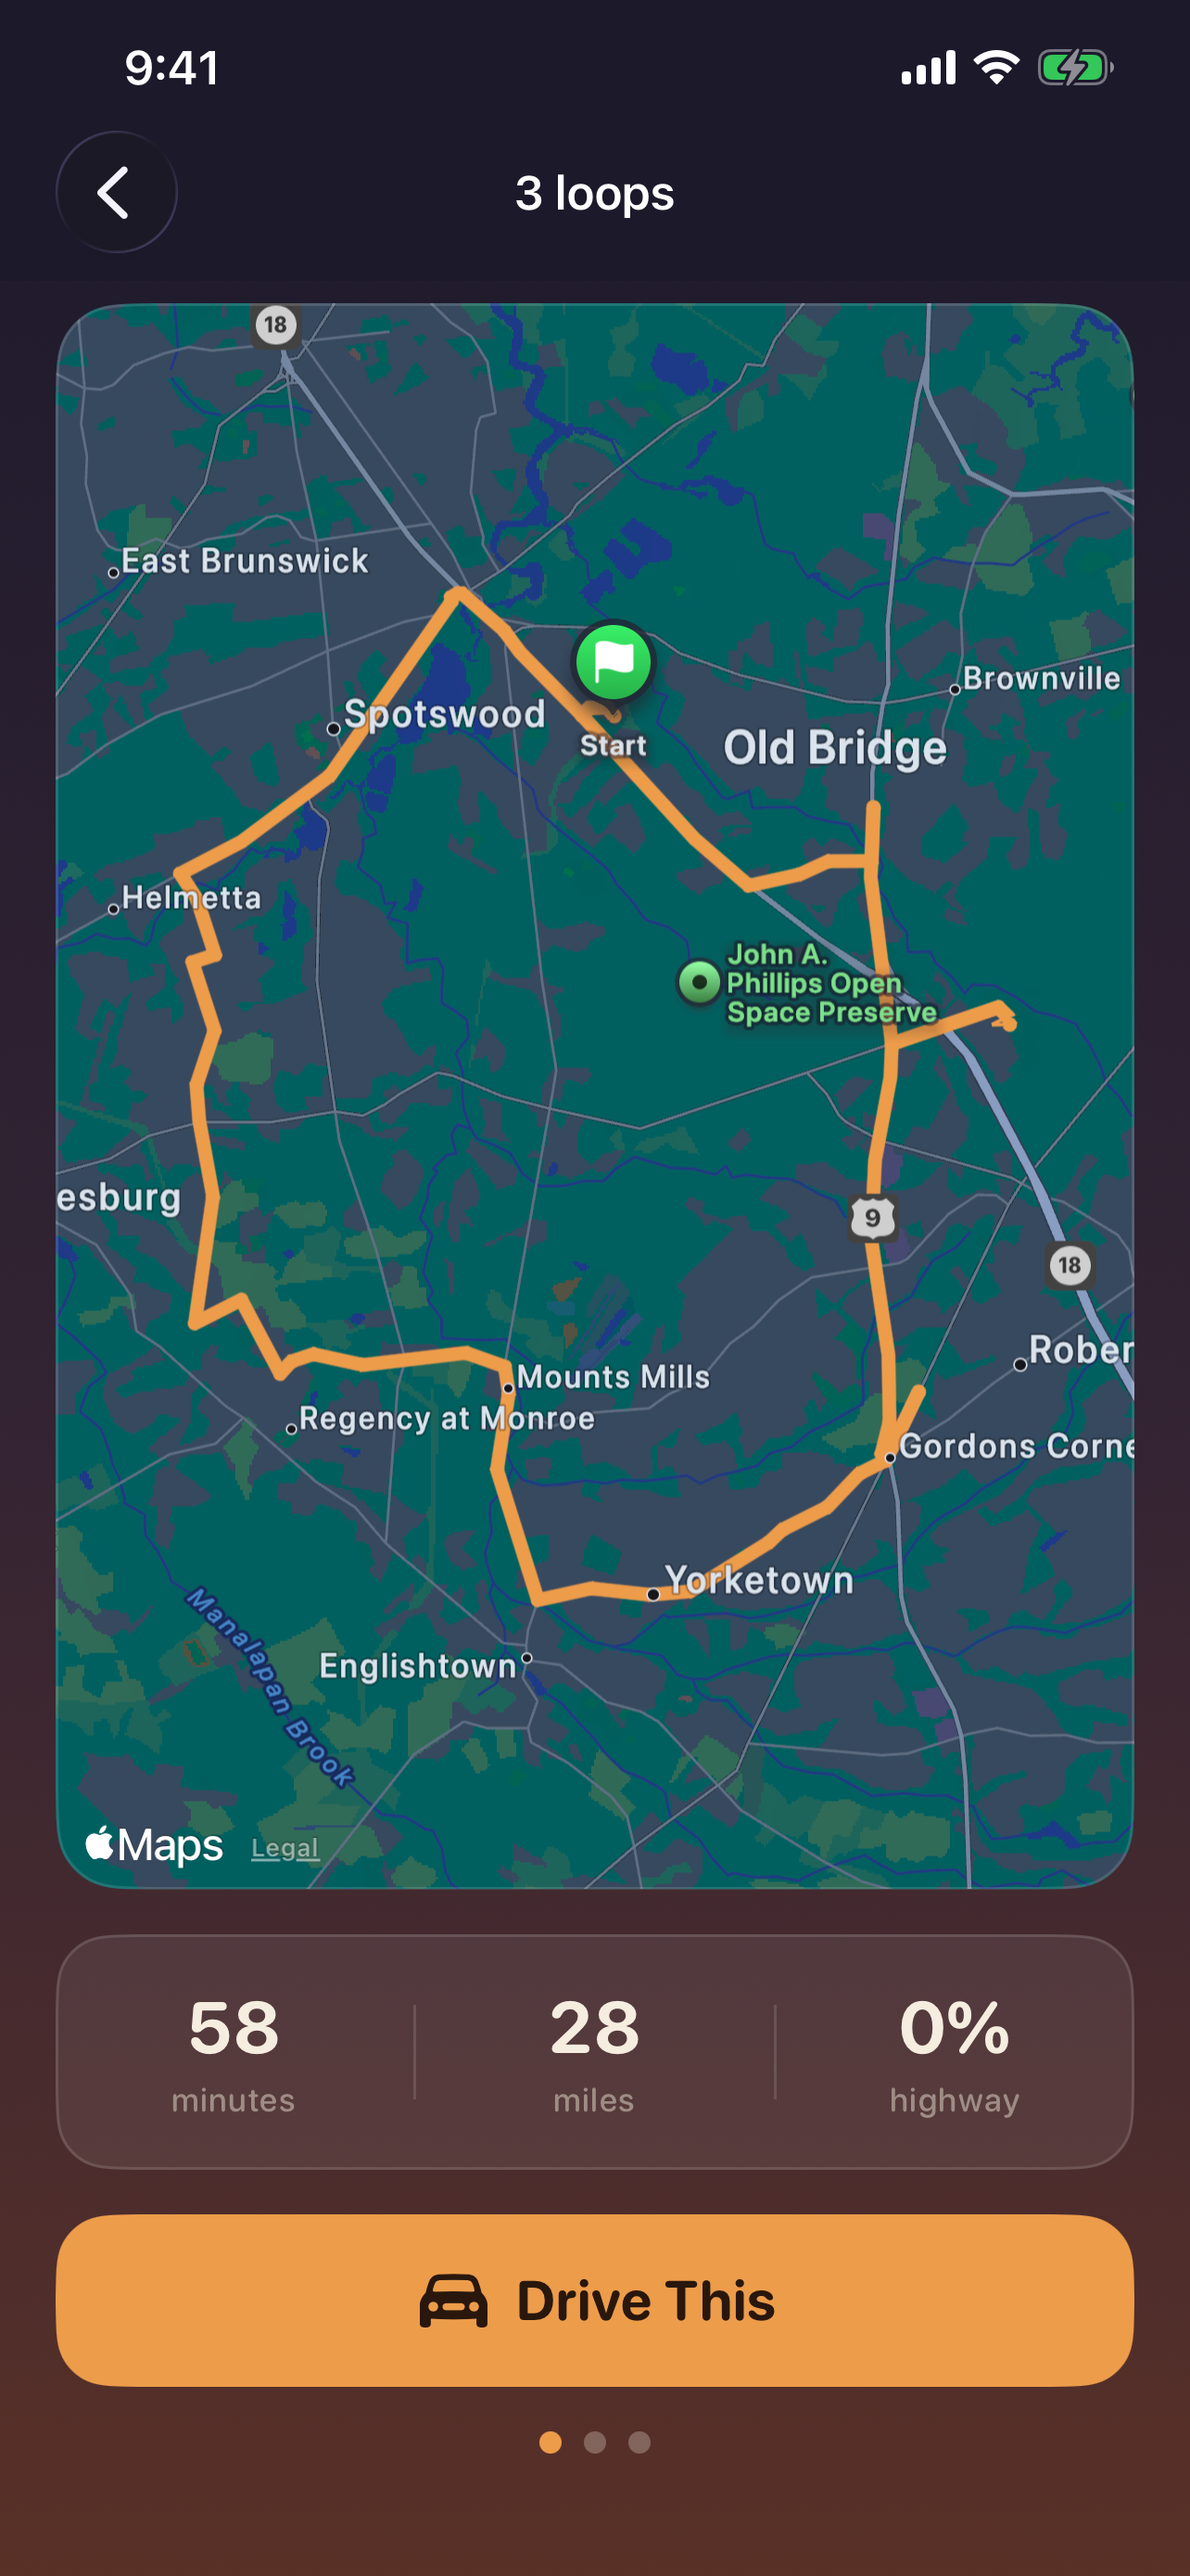
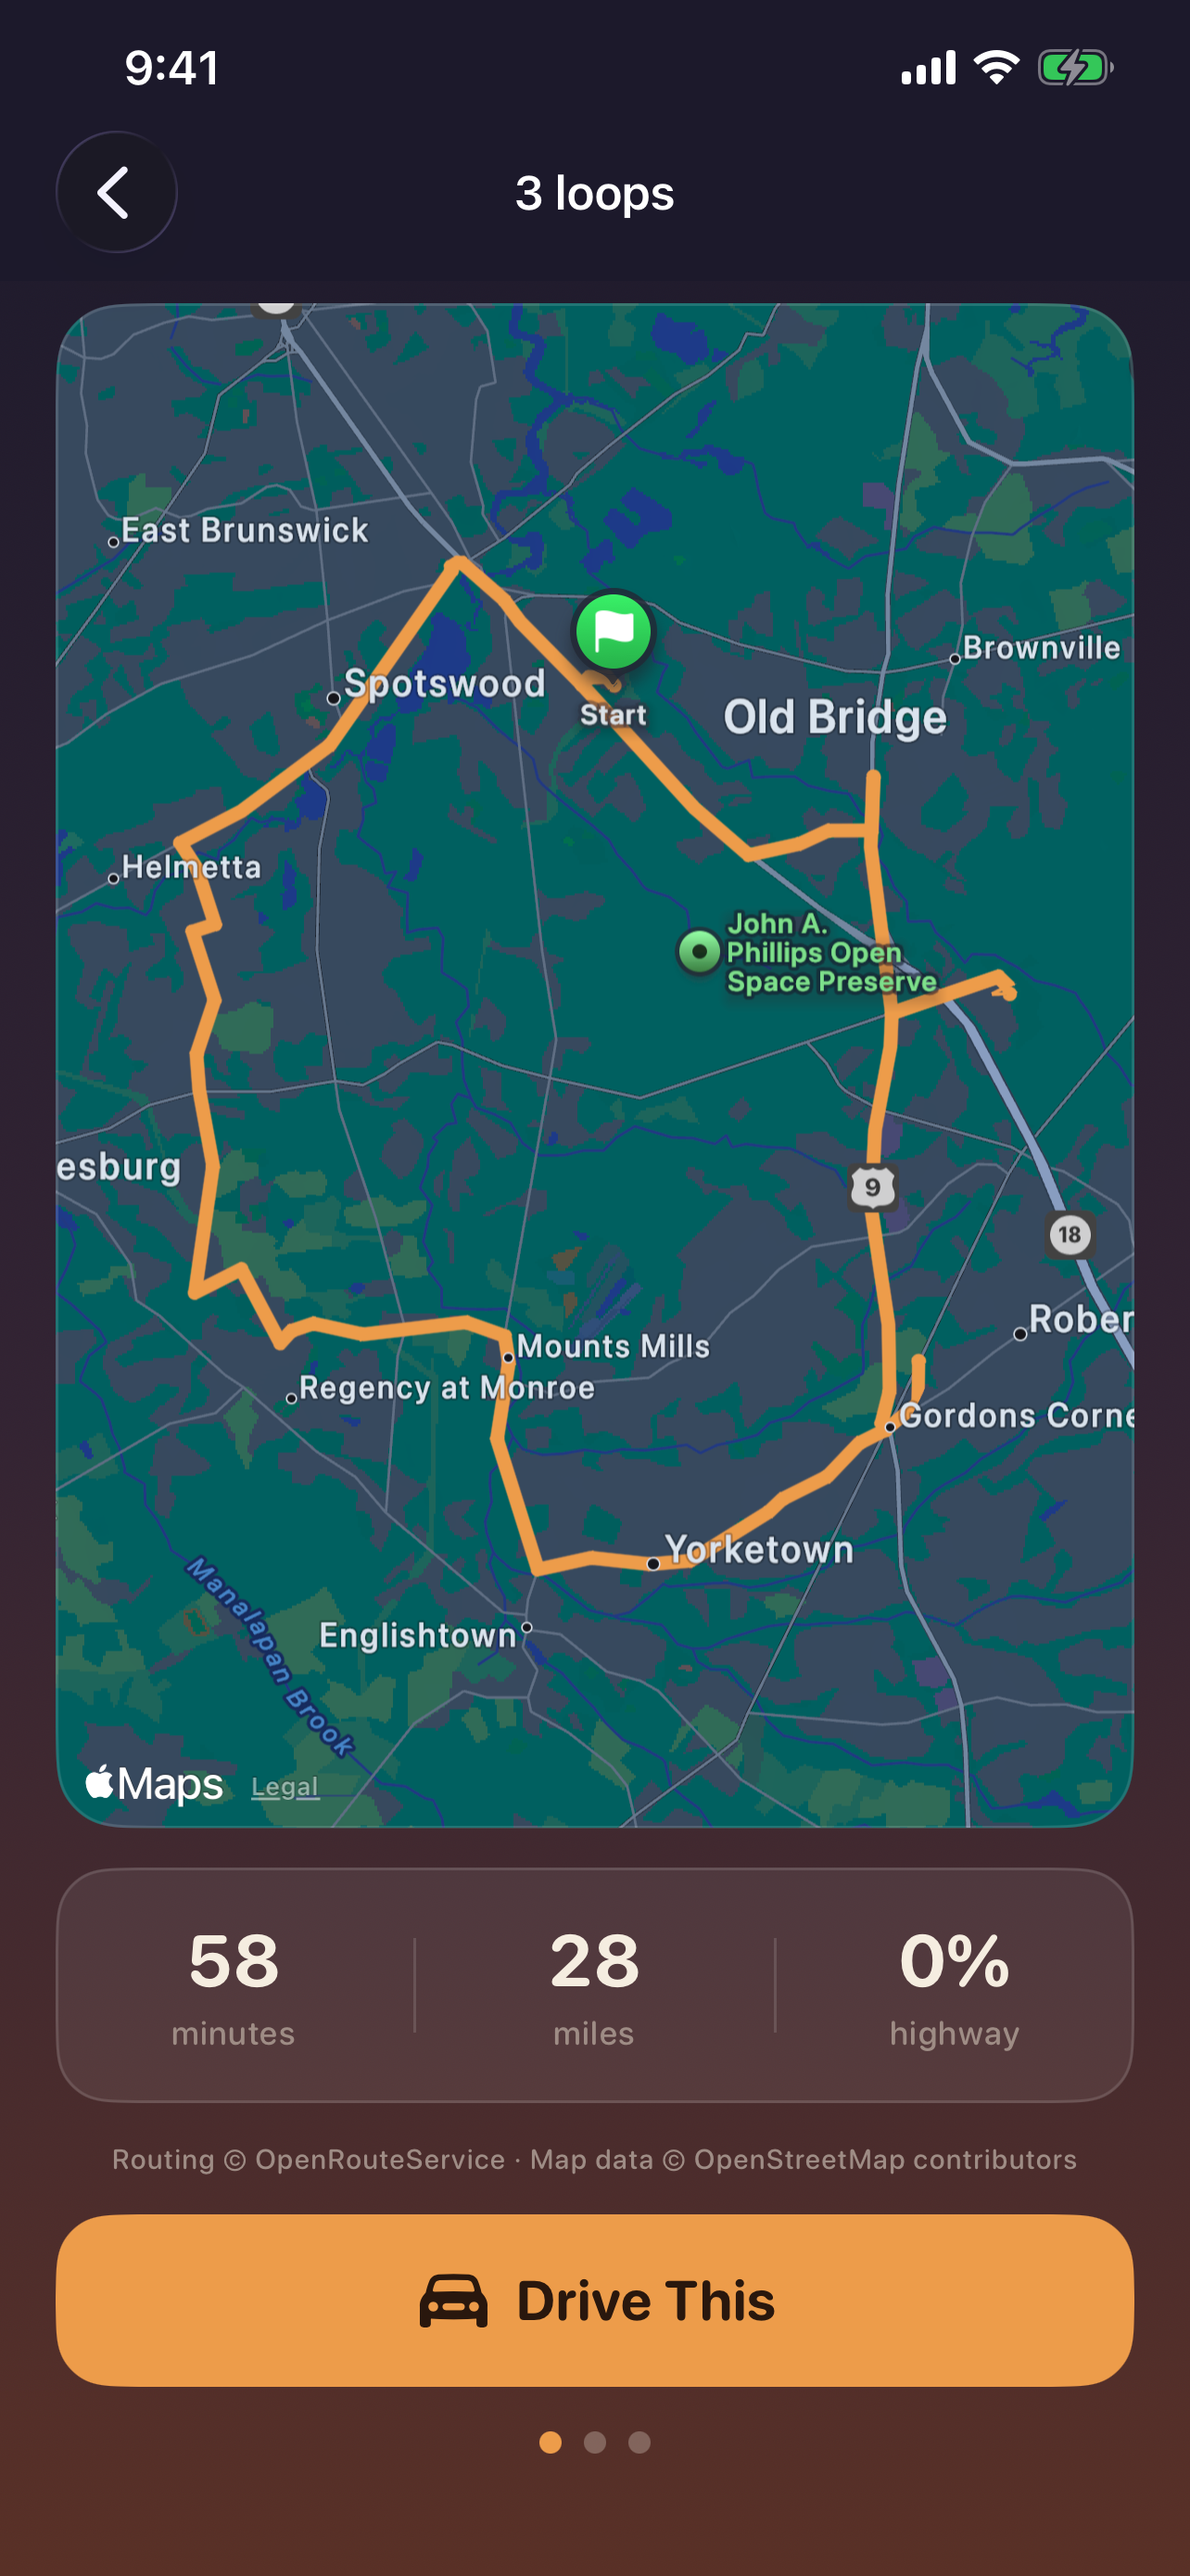
Attribute OpenStreetMap, which the licence requires
Route geometry comes from OpenRouteService, which derives it from
OpenStreetMap. OSM data is ODbL-licensed and obliges us to credit it, and
nothing in the app did. MapKit renders Apple's own credit on the map, which
covered the base tiles and hid the gap.

The credit sits on the results screen because that is where the data is shown —
the Generate screen displays only an Apple map.

Found while answering App Store Connect's Content Rights question, which asks
whether the app displays third-party content. Answering it honestly meant
looking at what the app actually renders, and the answer was data we had not
credited.

Build number 1 -> 2. App Store Connect rejects a re-upload reusing a build
number it has already seen, and build 1 was uploaded this morning.

Verified in the exported binary: version 1.0 (2), Apple Distribution signed,
attribution string present, ORS key still absent.

diff --git a/Aimless/Views/LoopMapView.swift b/Aimless/Views/LoopMapView.swift
@@ -54,7 +54,7 @@ struct LoopMapView: View {
     @State private var camera: MapCameraPosition = .automatic
 
     var body: some View {
-        VStack(spacing: 16) {
+        VStack(spacing: 14) {
             Map(position: $camera) {
                 MapPolyline(coordinates: loop.coordinates)
                     .stroke(Theme.ember, style: StrokeStyle(
@@ -68,6 +68,7 @@ struct LoopMapView: View {
             .onAppear { camera = .rect(Self.boundingRect(for: loop.coordinates)) }
 
             stats
+            attribution
             driveButton
         }
         .padding(.horizontal, 20)
@@ -86,6 +87,21 @@ struct LoopMapView: View {
         .padding(.vertical, 18)
         .frame(maxWidth: .infinity)
         .cozyCard(radius: 20)
+    }
+
+    /// Required, not decorative. The route geometry comes from OpenRouteService,
+    /// which derives it from OpenStreetMap, and OSM's ODbL licence obliges us to
+    /// credit it. MapKit shows Apple's own credit on the map itself; nothing
+    /// showed this one until it was added.
+    ///
+    /// It lives on this screen because this is the screen where the data is
+    /// displayed — the Generate screen shows only an Apple map.
+    private var attribution: some View {
+        Text("Routing © OpenRouteService · Map data © OpenStreetMap contributors")
+            .font(.system(size: 10, weight: .medium, design: .rounded))
+            .foregroundStyle(Theme.inkFaint)
+            .multilineTextAlignment(.center)
+            .fixedSize(horizontal: false, vertical: true)
     }
 
     private var divider: some View {

diff --git a/README.md b/README.md
@@ -94,6 +94,16 @@ duplicate.
 The app icon is generated, not drawn — `swift tools/makeicon.swift out.png`
 reproduces it.
 
+## Attribution
+
+Routing comes from [OpenRouteService](https://openrouteservice.org), operated by
+HeiGIT, which derives its road network from
+[OpenStreetMap](https://www.openstreetmap.org/copyright). OSM data is licensed
+under the ODbL, which requires attribution — the app credits both on the results
+screen, where the data is actually displayed.
+
+Base map tiles are Apple's, via MapKit, which renders its own credit.
+
 ## Status
 
 v1 is built and running. Known limitations are documented honestly in
